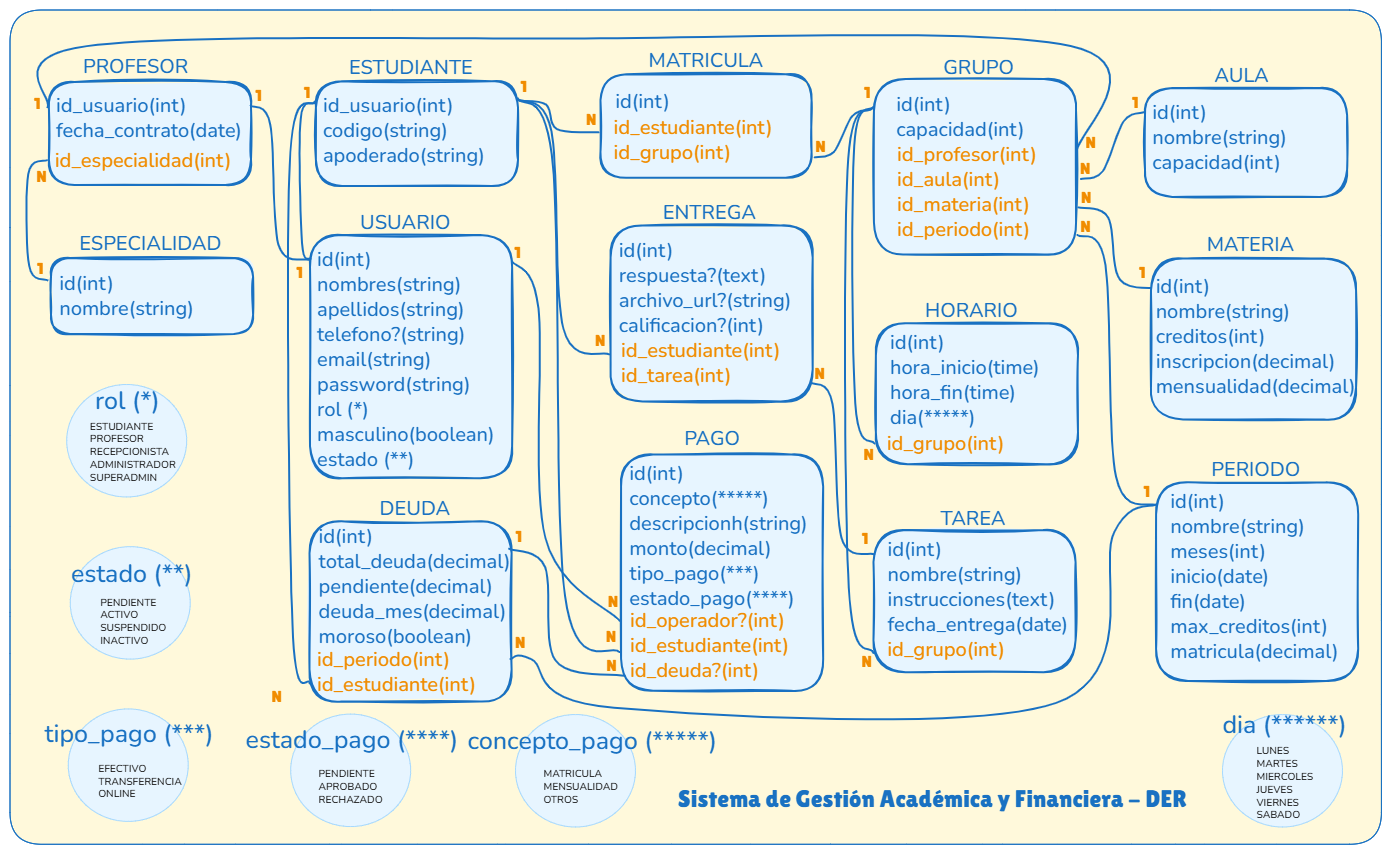
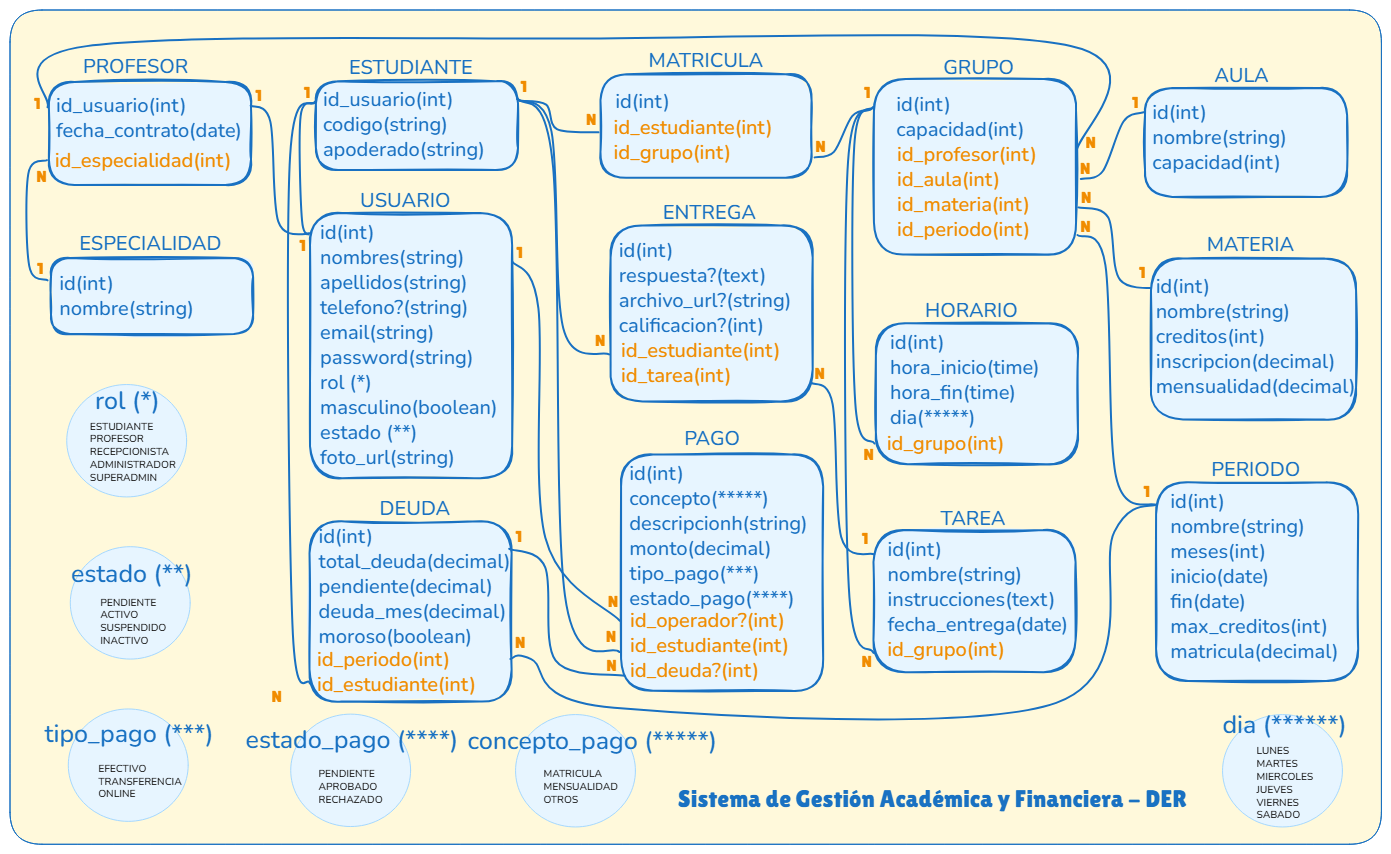
feature: add photos wint cloudinary

Changed region(s): [[0.1855, 0.0913, 0.371, 0.548]]

diff --git a/src/usuario/usuario.controller.ts b/src/usuario/usuario.controller.ts
@@ -6,17 +6,64 @@ import {
   Patch,
   Param,
   Delete,
+  Put,
+  Req,
+  UseInterceptors,
+  UploadedFile,
+  UseGuards,
+  ParseFilePipe,
+  MaxFileSizeValidator,
+  FileTypeValidator,
 } from '@nestjs/common';
 import { UsuarioService } from './usuario.service.js';
 import { CreateUsuarioDto } from './dto/create-usuario.dto.js';
 import { UpdateUsuarioDto } from './dto/update-usuario.dto.js';
 import { Roles } from '../common/decorators/roles.decorator.js';
 import { ApiOperation } from '@nestjs/swagger';
+import { FileInterceptor } from '@nestjs/platform-express';
+import CloudinaryService from '../cloudinary/cloudinary.service.js';
+import { JwtAuthGuard } from '../auth/guards/jwt-auth.guard.js';
 
 @Roles('ADMINISTRADOR')
 @Controller('usuario')
 export class UsuarioController {
-  constructor(private readonly usuarioService: UsuarioService) {}
+  constructor(
+    private readonly usuarioService: UsuarioService,
+    private readonly cloudinaryService: CloudinaryService,
+  ) {}
+
+  @Put('perfil')
+  @UseGuards(JwtAuthGuard)
+  @UseInterceptors(FileInterceptor('foto')) // Captura el archivo en memoria RAM
+  async actualizarPerfil(
+    @Req() req: any,
+    @Body() datosDto: { nombre: string; telefono?: string },
+    @UploadedFile(
+      new ParseFilePipe({
+        validators: [
+          new MaxFileSizeValidator({ maxSize: 5 * 1024 * 1024 }),
+          new FileTypeValidator({ fileType: '.(png|jpeg|jpg|webp)' }),
+        ],
+        fileIsRequired: false,
+      }),
+    )
+    file?: Express.Multer.File,
+  ) {
+    const usuarioId = req.user.id;
+    let urlFoto: string | undefined = undefined;
+
+    if (file) {
+      const resultadoCloudinary =
+        await this.cloudinaryService.subirImagen(file);
+      urlFoto = resultadoCloudinary.secure_url; // URL segura HTTPS
+    }
+
+    return this.usuarioService.actualizarPerfil(usuarioId, {
+      nombre: datosDto.nombre,
+      telefono: datosDto.telefono,
+      foto: urlFoto,
+    });
+  }
 
   @ApiOperation({ summary: 'Registra un nuevo Usuario' })
   @Post()

diff --git a/src/cloudinary/cloudinary.service.ts b/src/cloudinary/cloudinary.service.ts
@@ -1,0 +1,33 @@
+import { Injectable } from '@nestjs/common';
+import {
+  v2 as cloudinary,
+  UploadApiResponse,
+  UploadApiErrorResponse,
+} from 'cloudinary';
+import * as streamifier from 'streamifier';
+
+@Injectable()
+export default class CloudinaryService {
+  async subirImagen(
+    file: Express.Multer.File,
+  ): Promise<UploadApiResponse | UploadApiErrorResponse> {
+    return new Promise((resolve, reject) => {
+      const uploadStream = cloudinary.uploader.upload_stream(
+        {
+          folder: 'clinica/perfiles',
+          allowed_formats: ['jpg', 'png', 'jpeg', 'webp'],
+          transformation: [{ width: 500, height: 500, crop: 'limit' }],
+        },
+        (error, result) => {
+          if (error) return reject(error);
+          if (!result)
+            return reject(
+              new Error('No se pudo obtener respuesta de Cloudinary'),
+            );
+          resolve(result);
+        },
+      );
+      streamifier.createReadStream(file.buffer).pipe(uploadStream);
+    });
+  }
+}

diff --git a/src/usuario/usuario.service.ts b/src/usuario/usuario.service.ts
@@ -84,6 +84,25 @@ export class UsuarioService {
     });
   }
 
+  async actualizarPerfil(
+    usuarioId: number,
+    datos: { nombre: string; telefono?: string; foto?: string },
+  ) {
+    const usuarioExistente = await this.prisma.usuario.findUnique({
+      where: { id: usuarioId },
+    });
+    if (!usuarioExistente) throw new NotFoundException('Usuario no encontrado');
+
+    return this.prisma.usuario.update({
+      where: { id: usuarioId },
+      data: {
+        nombre: datos.nombre,
+        telefono: datos.telefono,
+        ...(datos.foto && { foto: datos.foto }),
+      },
+    });
+  }
+
   async remove(id: number) {
     return await this.prisma.usuario.update({
       where: { id, deleted: false },

diff --git a/src/app.module.ts b/src/app.module.ts
@@ -26,6 +26,7 @@ import { envValidationSchema } from './common/configs/env.validation.js';
 import { ScheduleModule } from '@nestjs/schedule';
 import { AdminModule } from './admin/admin.module.js';
 import { SanitizeInterceptor } from './common/interceptors/sanitize.interceptor.js';
+import { CloudinaryModule } from './cloudinary/cloudinary.module.js';
 
 export const { ObserveModule, ObserveInstrument } = createObserveModule();
 
@@ -64,6 +65,7 @@ ConfigModule.forRoot({
     DeudaModule,
     PagoModule,
     AdminModule,
+    CloudinaryModule,
   ],
   controllers: [AppController],
   providers: [

diff --git a/src/usuario/dto/create-usuario.dto.ts b/src/usuario/dto/create-usuario.dto.ts
@@ -140,6 +140,14 @@ export class CreateUsuarioDto {
   readonly masculino: boolean;
 
   @ApiProperty({
+    example:
+      'https://res.cloudinary.com/xbemwdg4/image/jkzmijmxahnjbxv0owp0.jpg',
+    description: 'URL de la foto del usuario.',
+  })
+  @IsOptional()
+  readonly foto_url?: string;
+
+  @ApiProperty({
     example: 'PENDIENTE',
     description:
       'Detalla el estado de un Usuario, sobre la gobernabilidad del sistema.',

diff --git a/src/usuario/usuario.module.ts b/src/usuario/usuario.module.ts
@@ -1,8 +1,10 @@
 import { Module } from '@nestjs/common';
 import { UsuarioService } from './usuario.service.js';
 import { UsuarioController } from './usuario.controller.js';
+import { CloudinaryModule } from '../cloudinary/cloudinary.module.js';
 
 @Module({
+  imports:[CloudinaryModule],
   controllers: [UsuarioController],
   providers: [UsuarioService],
   exports: [UsuarioService],

diff --git a/src/cloudinary/cloudinary.provider.ts b/src/cloudinary/cloudinary.provider.ts
@@ -1,0 +1,14 @@
+import { v2 as cloudinary } from 'cloudinary';
+
+const CloudinaryProvider = {
+  provide: 'CLOUDINARY',
+  useFactory: () => {
+    return cloudinary.config({
+      cloud_name: process.env.CLOUDINARY_CLOUD_NAME,
+      api_key: process.env.CLOUDINARY_API_KEY,
+      api_secret: process.env.CLOUDINARY_API_SECRET,
+    });
+  },
+};
+
+export default CloudinaryProvider;

diff --git a/src/cloudinary/cloudinary.module.ts b/src/cloudinary/cloudinary.module.ts
@@ -1,0 +1,9 @@
+import { Module } from '@nestjs/common';
+import CloudinaryProvider from './cloudinary.provider.js';
+import CloudinaryService from './cloudinary.service.js';
+
+@Module({
+  providers: [CloudinaryProvider, CloudinaryService],
+  exports: [CloudinaryProvider, CloudinaryService],
+})
+export class CloudinaryModule {}
